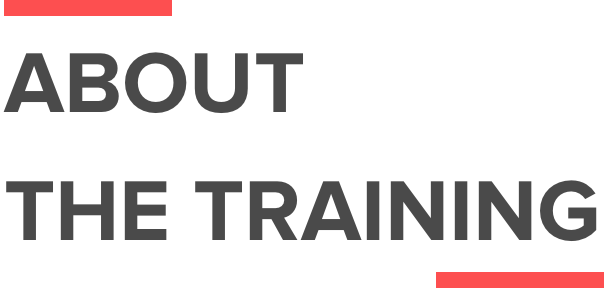
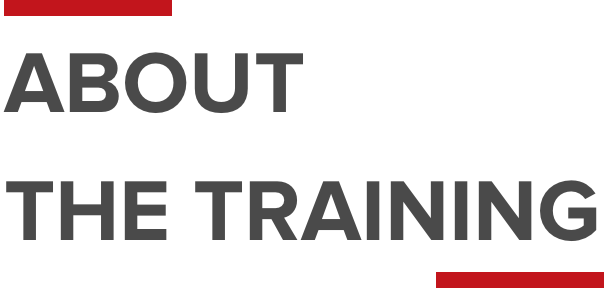
about in progress

Changed region(s): [[0.7152, 0.9375, 1.0, 1.0], [0.0, 0.0, 0.298, 0.0625]]

diff --git a/about.html b/about.html
@@ -85,34 +85,74 @@
         
         <header class="trainingHeader" id="aboutHeader">
             <div class="headerLinksSection">
-            <div class="headerLinksContainer">
-                <div class="logoSite">
-                    <a href="/index.html"><img class="logoClass" src="/imgs/logo.png"/></a>
-                </div>
-
-                <div class="siteLinks">
-                    <a href='#' onclick='overlay()'>Explore Classes</a>
-                    <a href="/about.html">About</a>
-                    <a href="/store.html">Our Store</a>
-                    <a class="trigger">Register!</a>
-                </div>
-                
-                <a href='#' onclick='menuoverlay()' class="hamburgerMenu">
-                    <div>
-                        <img src="/imgs/menu.svg"/>
+                <div class="headerLinksContainer">
+                    <div class="logoSite">
+                        <a href="/index.html"><img class="logoClass" src="/imgs/logohire.png"/></a>
                     </div>
-                </a>    
-            </div>
+
+                    <div class="siteLinks">
+                        <a href='#' onclick='overlay()'>Explore Classes</a>
+                        <a href="/about.html">About</a>
+                        <a href="/store.html">Our Store</a>
+                        <a class="trigger">Register!</a>
+                    </div>
+
+                    <a href='#' onclick='menuoverlay()' class="hamburgerMenu">
+                        <div>
+                            <img src="/imgs/menu.svg"/>
+                        </div>
+                    </a>    
+                </div>
             
-        </div>
+            </div>
             <div class="headerContent">
                 <div class="headerContentInside">
-                    <h1>About CompanyName</h1>
+                    <h1>About Prime Time Training</h1>
                 </div>    
             </div>
         </header>
         
-
+        <div id="imgPlaceHolder">
+            <h3>Image Placeholder</h3>
+        </div>
+        
+        <section class="aboutContent">
+            <div class="aboutContentInside">
+                <div>
+                    <img id="aboutHeader" src="/imgs/aboutHeader.png"/>
+                    <h1>Our Story</h1>
+                </div>
+                
+                <p class="paragraphText">
+                Lorem ipsum dolor sit amet, consectetur adipiscing elit. Suspendisse magna est, ornare sed condimentum ac, tempor ut purus. Aenean luctus mollis leo, eget molestie tortor.
+                </p>
+                <p class="paragraphText">
+                Lorem ipsum dolor sit amet, consectetur adipiscing elit. Suspendisse magna est, ornare sed condimentum ac, tempor ut purus. Aenean luctus mollis leo, eget molestie tortor.
+                </p>
+            </div>
+        </section>
+        
+        <section class="location">
+            <div class="map">
+            
+            </div>
+            <div class="currentLoc">
+                <div class="currentLocContent">
+                    <h3>Our Headquaters</h3>
+                    <p>Washington DC <br>9999 Street St <br>Bethesda MD 20814</p>
+                    <p class="padding40px">202.566.4523</p>
+                    
+                    <h3>Where we operate</h3>
+                    <p>Washington DC</p>
+                    <p>Montgomery County, MD</p>
+                    <p>Alrington County, VA</p>
+                    <p class="padding40px italics greyedouttext">New locations coming soon</p>
+                    
+                    <h3>Our Headquaters</h3>
+                    <p>address</p>
+                </div>
+            </div>
+        </section>
         
     
 

diff --git a/css/about.css b/css/about.css
@@ -2,9 +2,20 @@
     height: auto;
 }
 
+#aboutPage .siteLinks a{
+    color: #4A4A4A;
+}
+
+#aboutPage .trigger{
+    color: #fff !important;
+}
+
 .headerContent{
     margin: 0px auto;
     margin-top: 120px;
+    height: 100px;
+    clear: both;
+    display: block;
 }
 
 .headerContentInside{
@@ -21,9 +32,105 @@
     margin-bottom: 40px !important;
 }
 
+#imgPlaceHolder{
+    max-width: 600px;
+    height: 500px;
+    margin: 0px auto;
+    background: #4A4A4A;
+    width: 90%;
+    display: block;
+    margin-top: 80px;
+    clear: both;
+}
 
+.aboutContent{
+    -webkit-box-shadow: 0px -1px 5px 0px rgba(122,122,122,0.3);
+    -moz-box-shadow: 0px -1px 5px 0px rgba(122,122,122,0.3);    
+    box-shadow: 0px -1px 5px 0px rgba(122,122,122,0.3);
+    min-height: 300px;
+}
 
+.aboutContentInside{
+    max-width: 600px;
+    width: 90%;
+    margin: 0px auto;
+    height: auto;
+    min-height: 100px;
+    padding-top: 80px;
+    padding-bottom: 80px;
+}
 
+.aboutContentInside div{
+    padding-bottom: 30px;
+}
+
+#aboutHeader{
+    height: 60px;
+}
+
+.aboutContentInside div h1{
+    font-size: 12px;
+    color: #fff;
+}
+
+.aboutContentInside p{
+    color: #4A4A4A;
+}
+
+.location{
+    min-height: 200px;
+}
+
+.map, .currentLoc{
+    display: inline-block;
+    float: left;
+    min-height: 200px;
+}
+
+.map{
+    width: 60%;
+}
+
+.currentLoc{
+    width: 40%;
+    background-color: #262844;
+}
+
+.currentLocContent{
+    padding-left: 60px;
+    padding-top: 160px;
+    padding-bottom: 160px;
+}
+
+.currentLocContent h3{
+    font-family: 'proxima_nova_altbold';
+    text-transform: uppercase;
+    font-size: 14px;
+    color: #fff;
+    padding-bottom: 12px;
+}
+
+.currentLocContent p{
+    color: #fff;
+    font-weight: 500;
+    line-height: 24px;
+    font-size: 14px;
+}
+
+.padding40px{
+    padding-bottom: 30px;
+}
+
+.greyedouttext{
+    opacity: 0.5;
+}
+
+#imgPlaceHolder H3{
+    color: #fff;
+    text-align: center;
+    padding-top: 230px;
+    text-transform: uppercase;
+}
 
 
 

diff --git a/css/global.css b/css/global.css
@@ -175,6 +175,10 @@ button{
     border-bottom: 3px solid currentColor;
 }
 
+.italics{
+    font-style: italic;
+}
+
 
 /*Site Styles*/
 .headerLinksSection{
@@ -205,8 +209,8 @@ header{
 }
 
 .logoClass{
-    height: 40px;
-    padding-top: 15px;
+    height: 80px;
+    padding-top: 0px;
 }
 
 .siteLinks{
@@ -232,7 +236,7 @@ header{
 
 .trigger{
     padding: 13px 15px;
-    background: #FD4F50;
+    background: #c2151c;
     border-radius: 3px;
 }
 
@@ -352,7 +356,7 @@ header{
 
 /* Mobile Menu */
 
-@media (min-width:501px){
+@media (min-width:701px){
     .hamburgerMenu{
         display: none !important;
     }
@@ -361,7 +365,7 @@ header{
     }
 }
 
-@media (max-width:500px) {
+@media (max-width:700px) {
     .siteLinks{
         display: none !important;
     }

diff --git a/css/home.css b/css/home.css
@@ -213,19 +213,19 @@ header{
 }
 
 .learnMorebtn a{
-    border: 2px solid #FD4F50;
+    border: 2px solid #c2151c;
     border-radius: 2px;
     padding: 12px 40px;
     text-transform: uppercase;
     font-weight: 700;
     font-size: 12px;
     letter-spacing: 1px;
-    color: #FD4F50;
+    color: #c2151c;
 }
 
 .learnMorebtn a:hover{
-    border: 2px solid #FD4F50;
-    background: #FD4F50;
+    border: 2px solid #c2151c;
+    background: #c2151c;
     color: #fff;
 }
 
@@ -274,7 +274,7 @@ header{
 
 /*Mobile Styles*/
 
-@media (max-width:500px){
+@media (max-width:700px){
     .ourStoryLeft, .ourStoryRight{
         display: block;
         float: none;

diff --git a/css/trainings.css b/css/trainings.css
@@ -82,7 +82,7 @@
     width: calc(46% - 13px);
     float: left;
     min-height: 50px;
-    border-left: solid 3px #FD4F50;
+    border-left: solid 3px #c2151c;
     display: inline-block;
     padding-left: 10px;
 }
@@ -127,7 +127,7 @@
     height: 4px;
     margin: 0px auto;
     display: block;
-    background: #FD4F50;
+    background: #c2151c;
 }
 
 .ReadySection h3{
@@ -141,7 +141,7 @@
 
 .ReadySection div a{
     padding: 15px 25px;
-    background: #FD4F50;
+    background: #c2151c;
     border-radius: 3px;
     color: #fff;
     font-weight: 700;

diff --git a/store.html b/store.html
@@ -87,7 +87,7 @@
             <div class="headerLinksSection">
                 <div class="headerLinksContainer">
                     <div class="logoSite">
-                        <a href="/index.html"><img class="logoClass" src="/imgs/logo.png"/></a>
+                        <a href="/index.html"><img class="logoClass" src="/imgs/logohire.png"/></a>
                     </div>
 
                     <div class="siteLinks">

diff --git a/index.html b/index.html
@@ -86,7 +86,7 @@
             <div class="headerLinksSection">
             <div class="headerLinksContainer">
                 <div class="logoSite">
-                    <a href="/index.html"><img class="logoClass" src="/imgs/logo.png"/></a>
+                    <a href="/index.html"><img class="logoClass" src="/imgs/logohire.png"/></a>
                 </div>
 
                 <div class="siteLinks">

diff --git a/trainings/group-training.html b/trainings/group-training.html
@@ -87,7 +87,7 @@
             <div class="headerLinksSection">
             <div class="headerLinksContainer">
                 <div class="logoSite">
-                    <a href="/index.html"><img class="logoClass" src="/imgs/logo.png"/></a>
+                    <a href="/index.html"><img class="logoClass" src="/imgs/logohire.png"/></a>
                 </div>
 
                 <div class="siteLinks">

diff --git a/trainings/individual-training.html b/trainings/individual-training.html
@@ -87,7 +87,7 @@
             <div class="headerLinksSection">
             <div class="headerLinksContainer">
                 <div class="logoSite">
-                    <a href="/index.html"><img class="logoClass" src="/imgs/logo.png"/></a>
+                    <a href="/index.html"><img class="logoClass" src="/imgs/logohire.png"/></a>
                 </div>
 
                 <div class="siteLinks">

diff --git a/trainings/summer-camps.html b/trainings/summer-camps.html
@@ -87,7 +87,7 @@
             <div class="headerLinksSection">
             <div class="headerLinksContainer">
                 <div class="logoSite">
-                    <a href="/index.html"><img class="logoClass" src="/imgs/logo.png"/></a>
+                    <a href="/index.html"><img class="logoClass" src="/imgs/logohire.png"/></a>
                 </div>
 
                 <div class="siteLinks">
